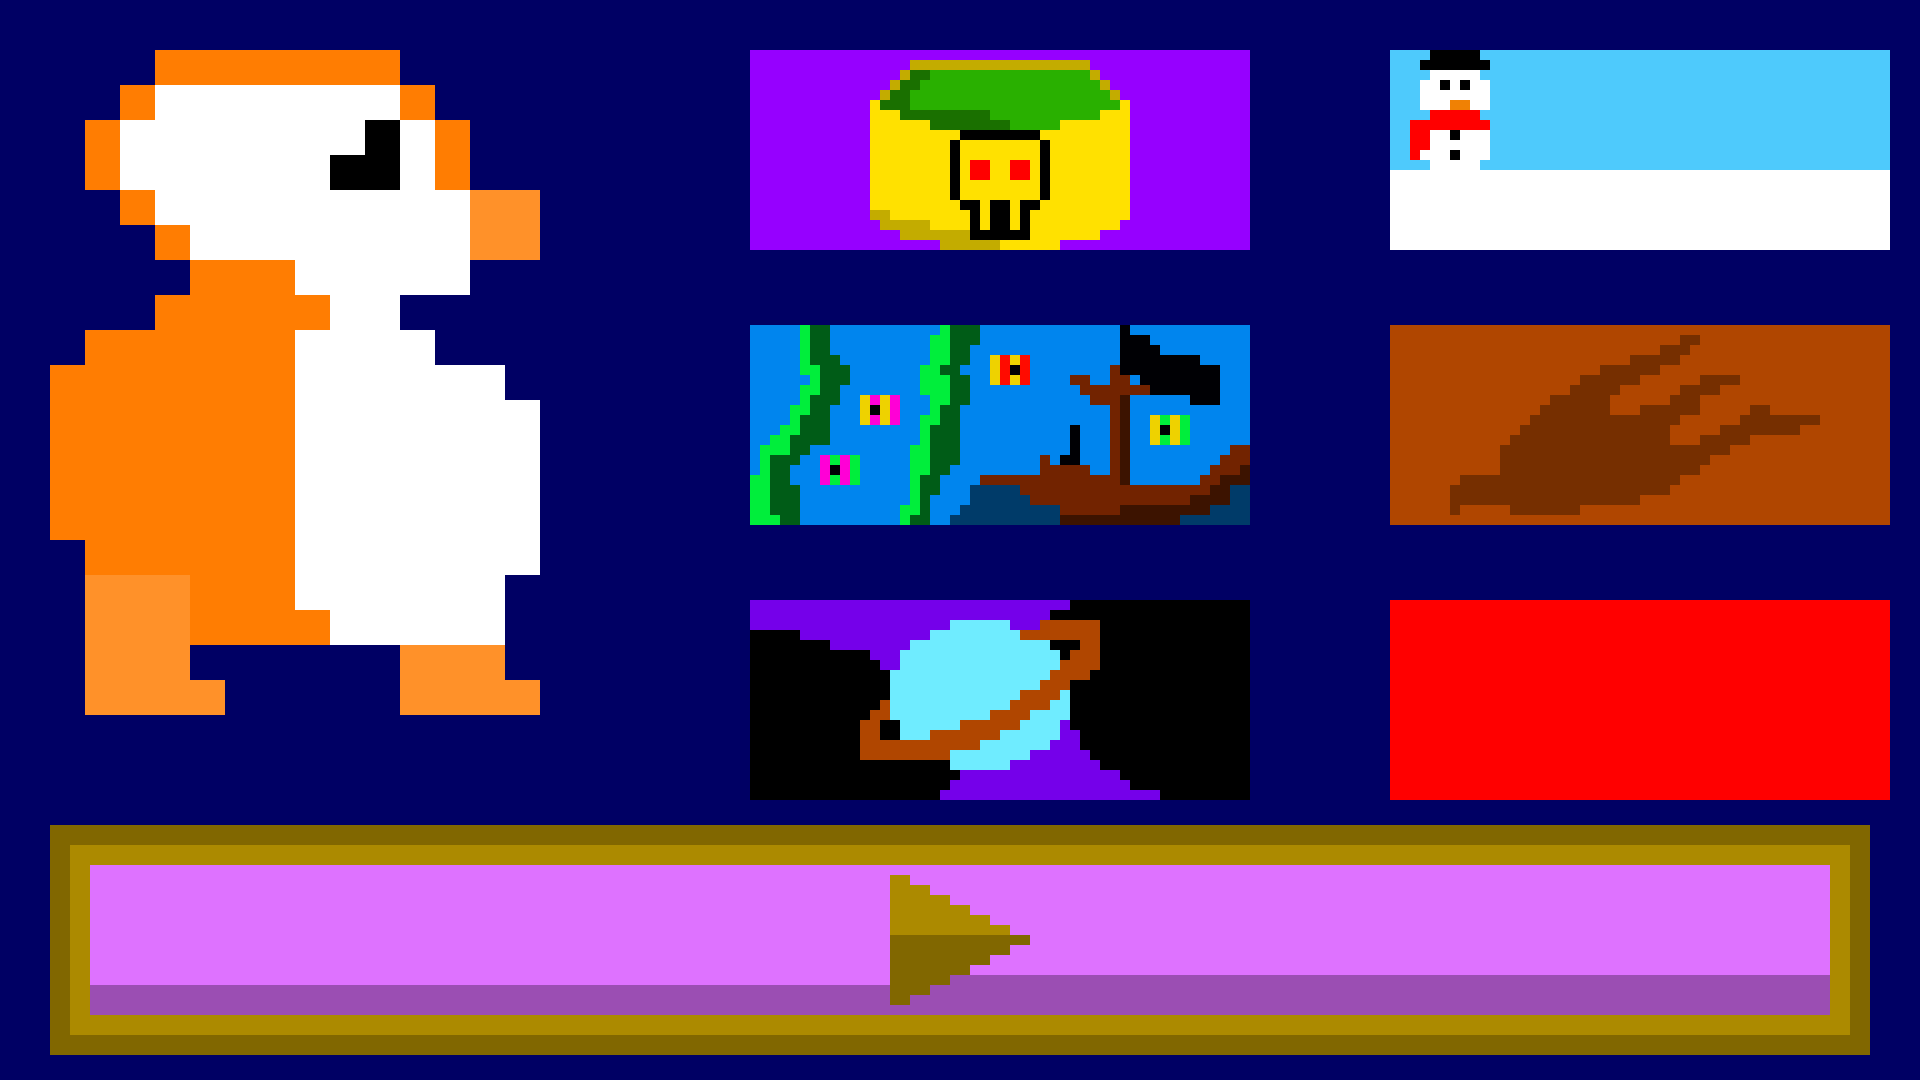
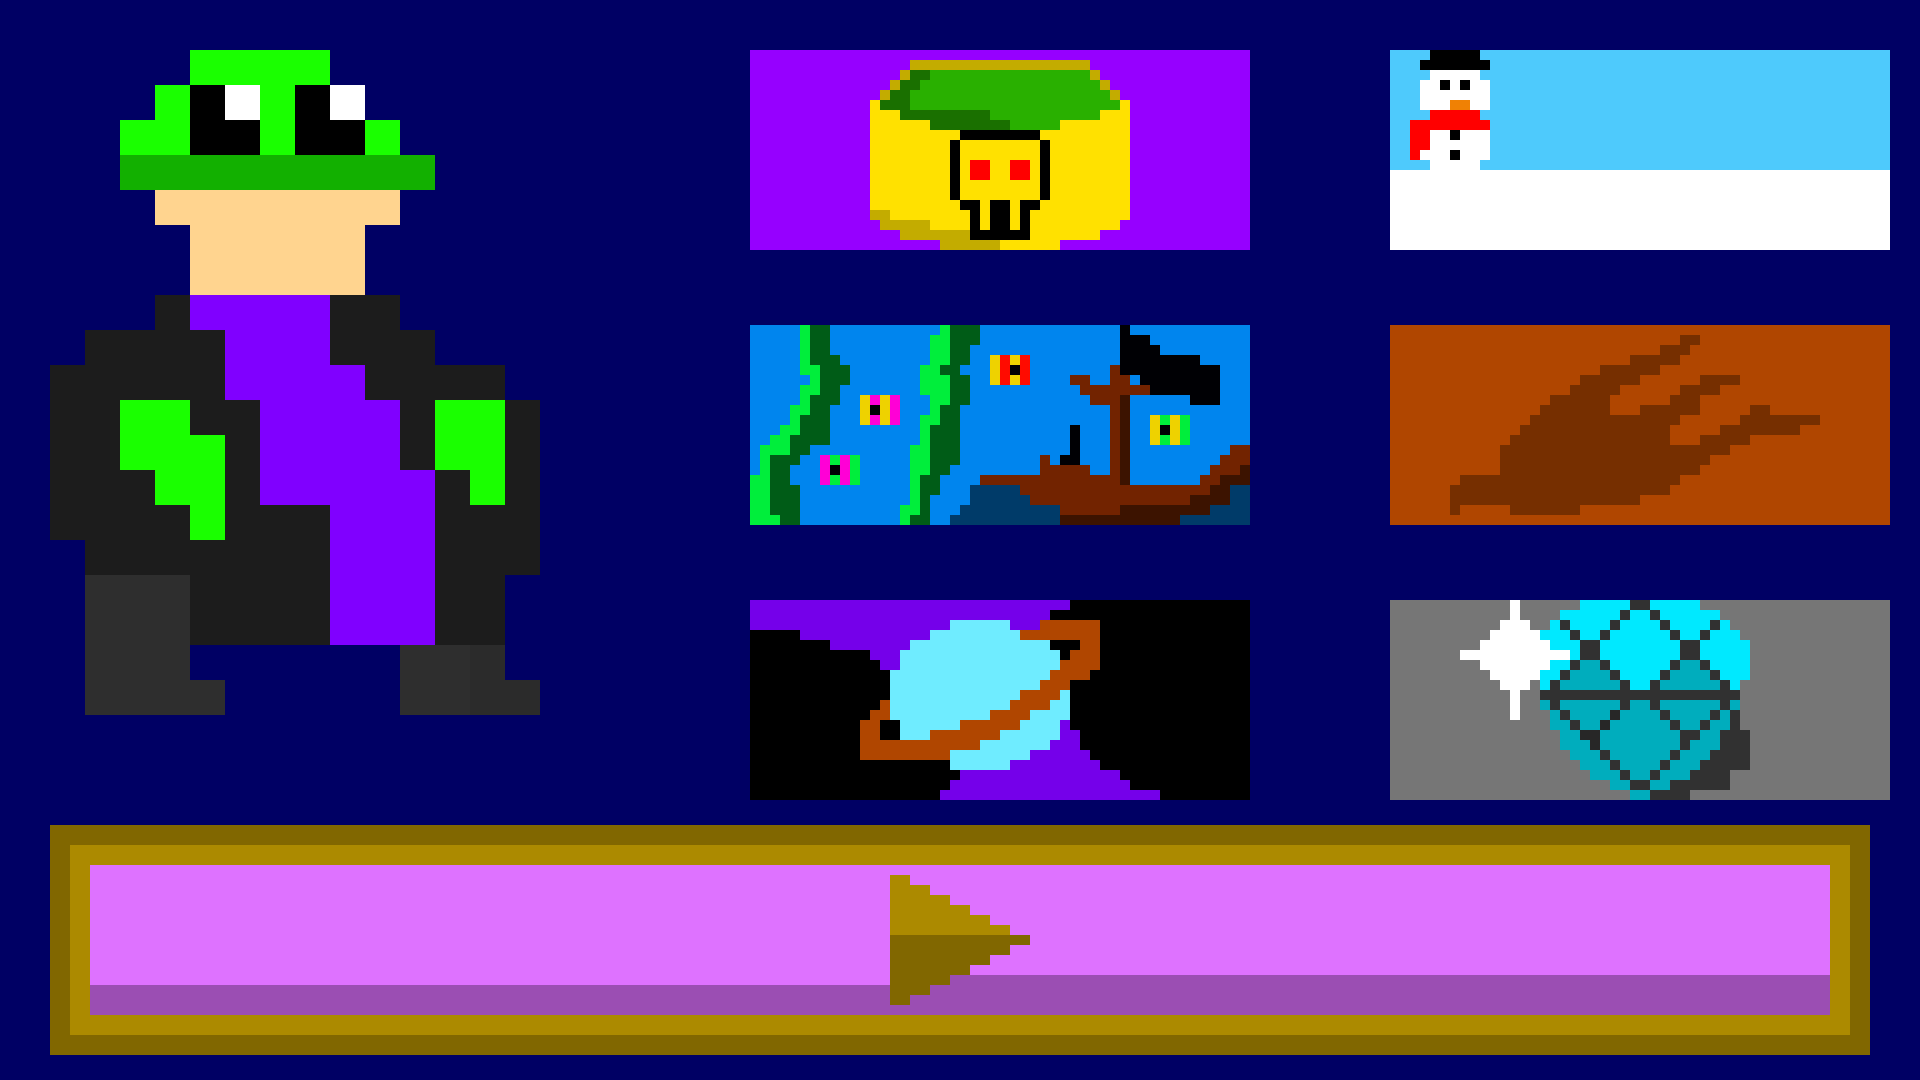
Done finally

Changed region(s): [[0.0, 0.0306, 0.2812, 0.6722], [0.7188, 0.55, 1.0, 0.7639]]

diff --git a/game.py b/game.py
@@ -509,8 +509,10 @@ def convertCode(themeCode):
         return "Space"
     elif themeCode == 3:
         return "Snowy"
-    else:
+    elif themeCode == 4:
         return "Jurassic"
+    else:
+        return "Mine"
     
 def run(screen, themeCode):
     global centerx, centery, running, tileMap
@@ -645,7 +647,7 @@ def run(screen, themeCode):
                     terminate(player, healthBar, slimeSword, slimeTank, bossBar)
                     return False
 
-                if event.key == pygame.K_m: #If we press keypad plus, we take a screen shot
+                if event.key == pygame.K_KP_PLUS: #If we press keypad plus, we take a screen shot
                     pygame.image.save(screen, "menuPage.png")
 
                 if event.key == pygame.K_k:

diff --git a/menu.py b/menu.py
@@ -3,7 +3,7 @@ import pygame
 class RadioButtons:
     def __init__(self, x, y, width, height, id, isDefault): #Initalize the object
         self.id = id #Assign a unique identifier to the buttons
-        if 0 <= id <= 4:
+        if 0 <= id <= 5:
             self.sheet = pygame.image.load("Textures/Menu/radioButtons.png").convert_alpha()
             self.image = getSprites(self.sheet, 0, 200 * id , 500, 200)#The buttons will be squares
         else:
@@ -70,8 +70,10 @@ def convertCode(themeCode):
         return "Space"
     elif themeCode == 3:
         return "Snowy"
-    else:
+    elif themeCode == 4:
         return "Jurassic"
+    else:
+        return "Mine"
     
 def runMenu(screen, theme):
     size = pygame.display.get_window_size()
